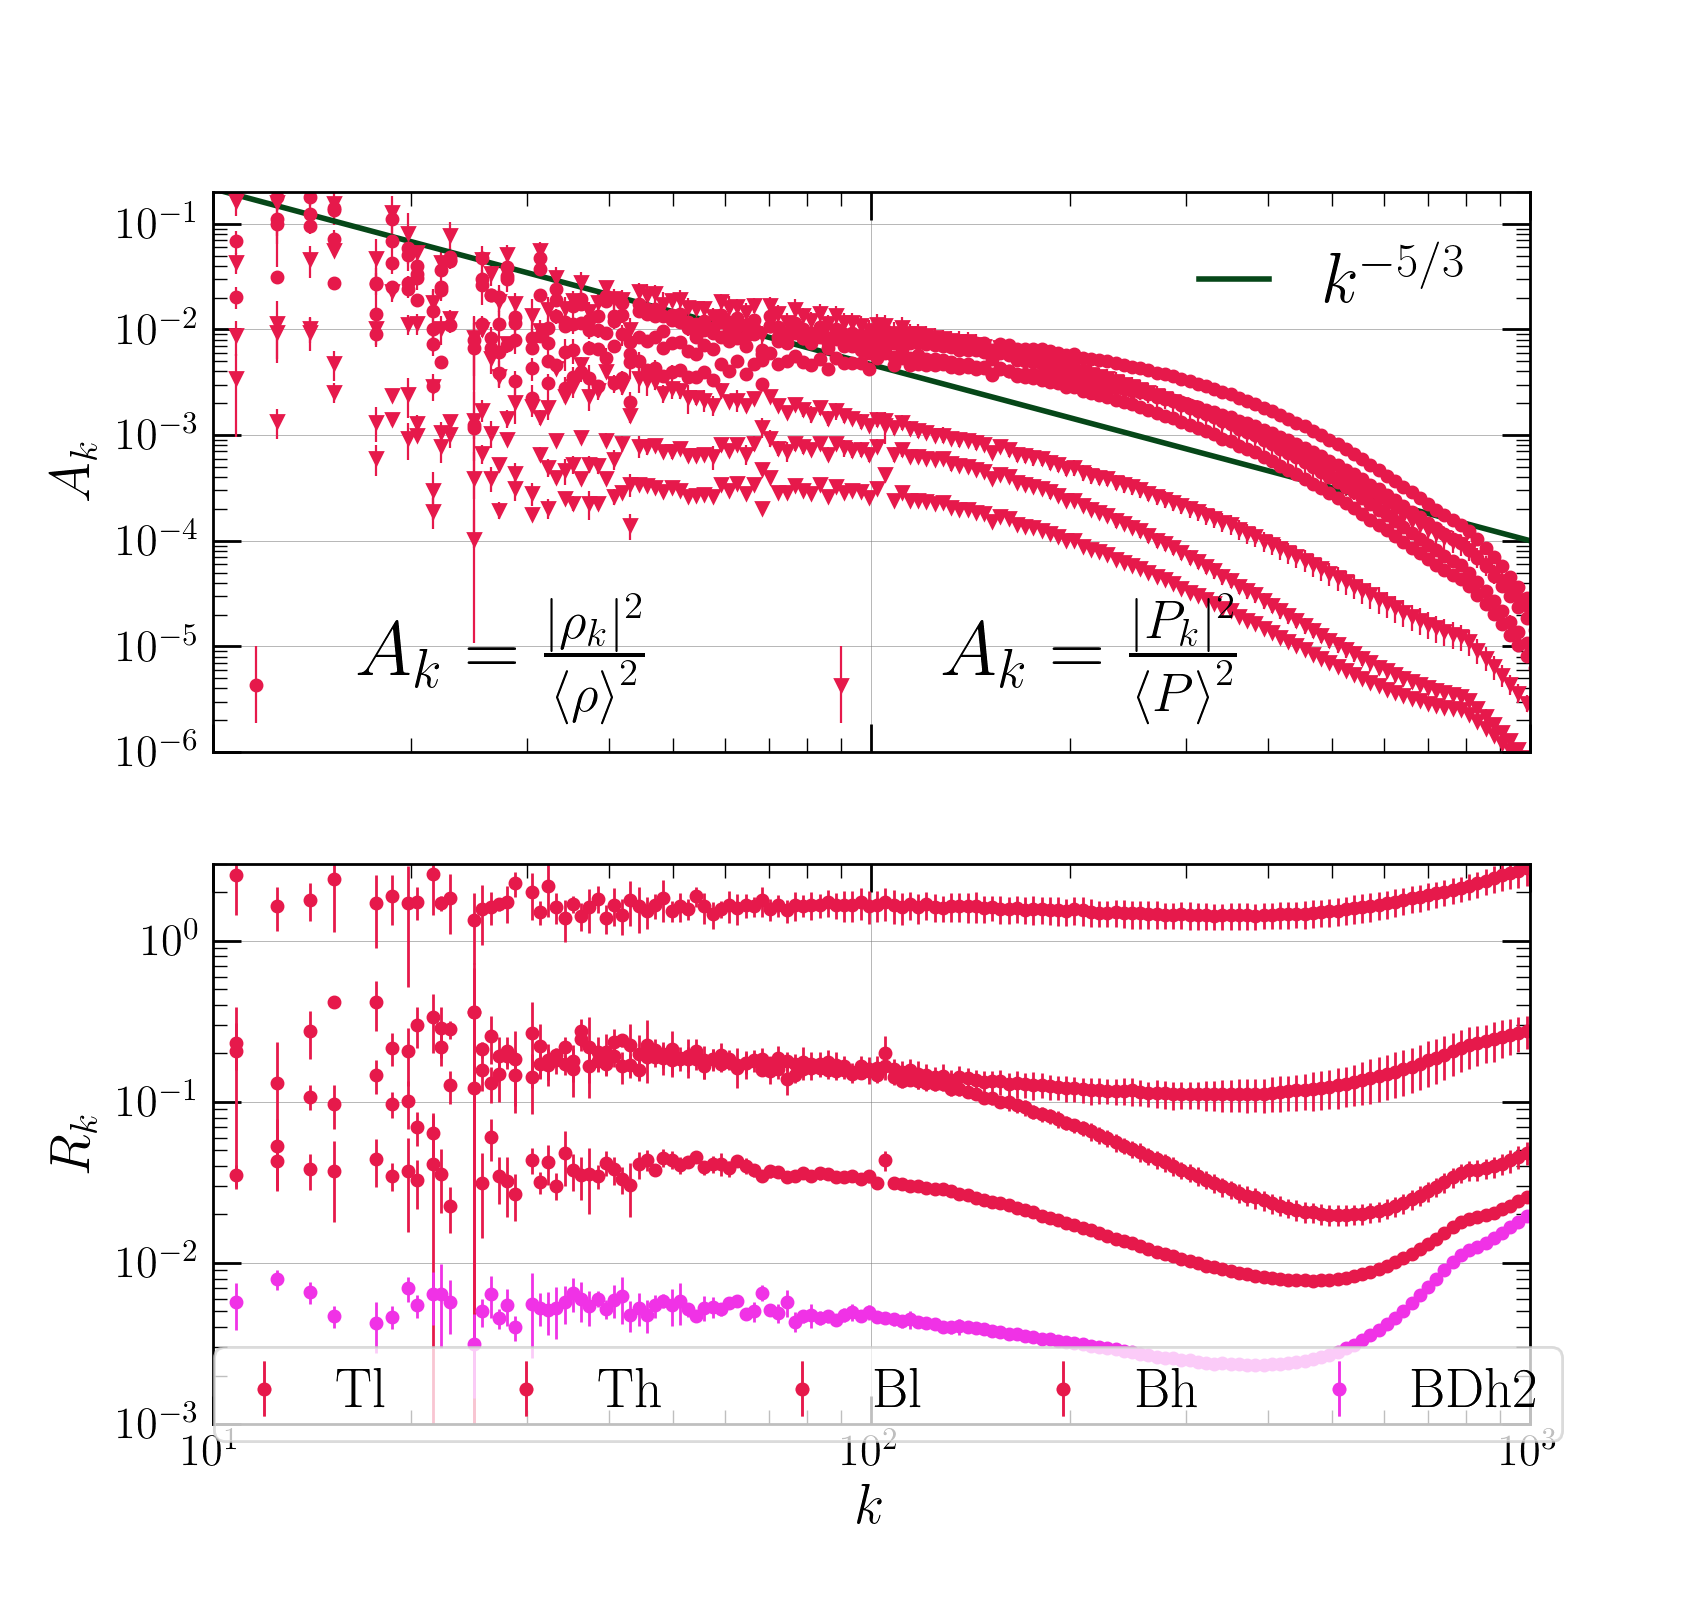
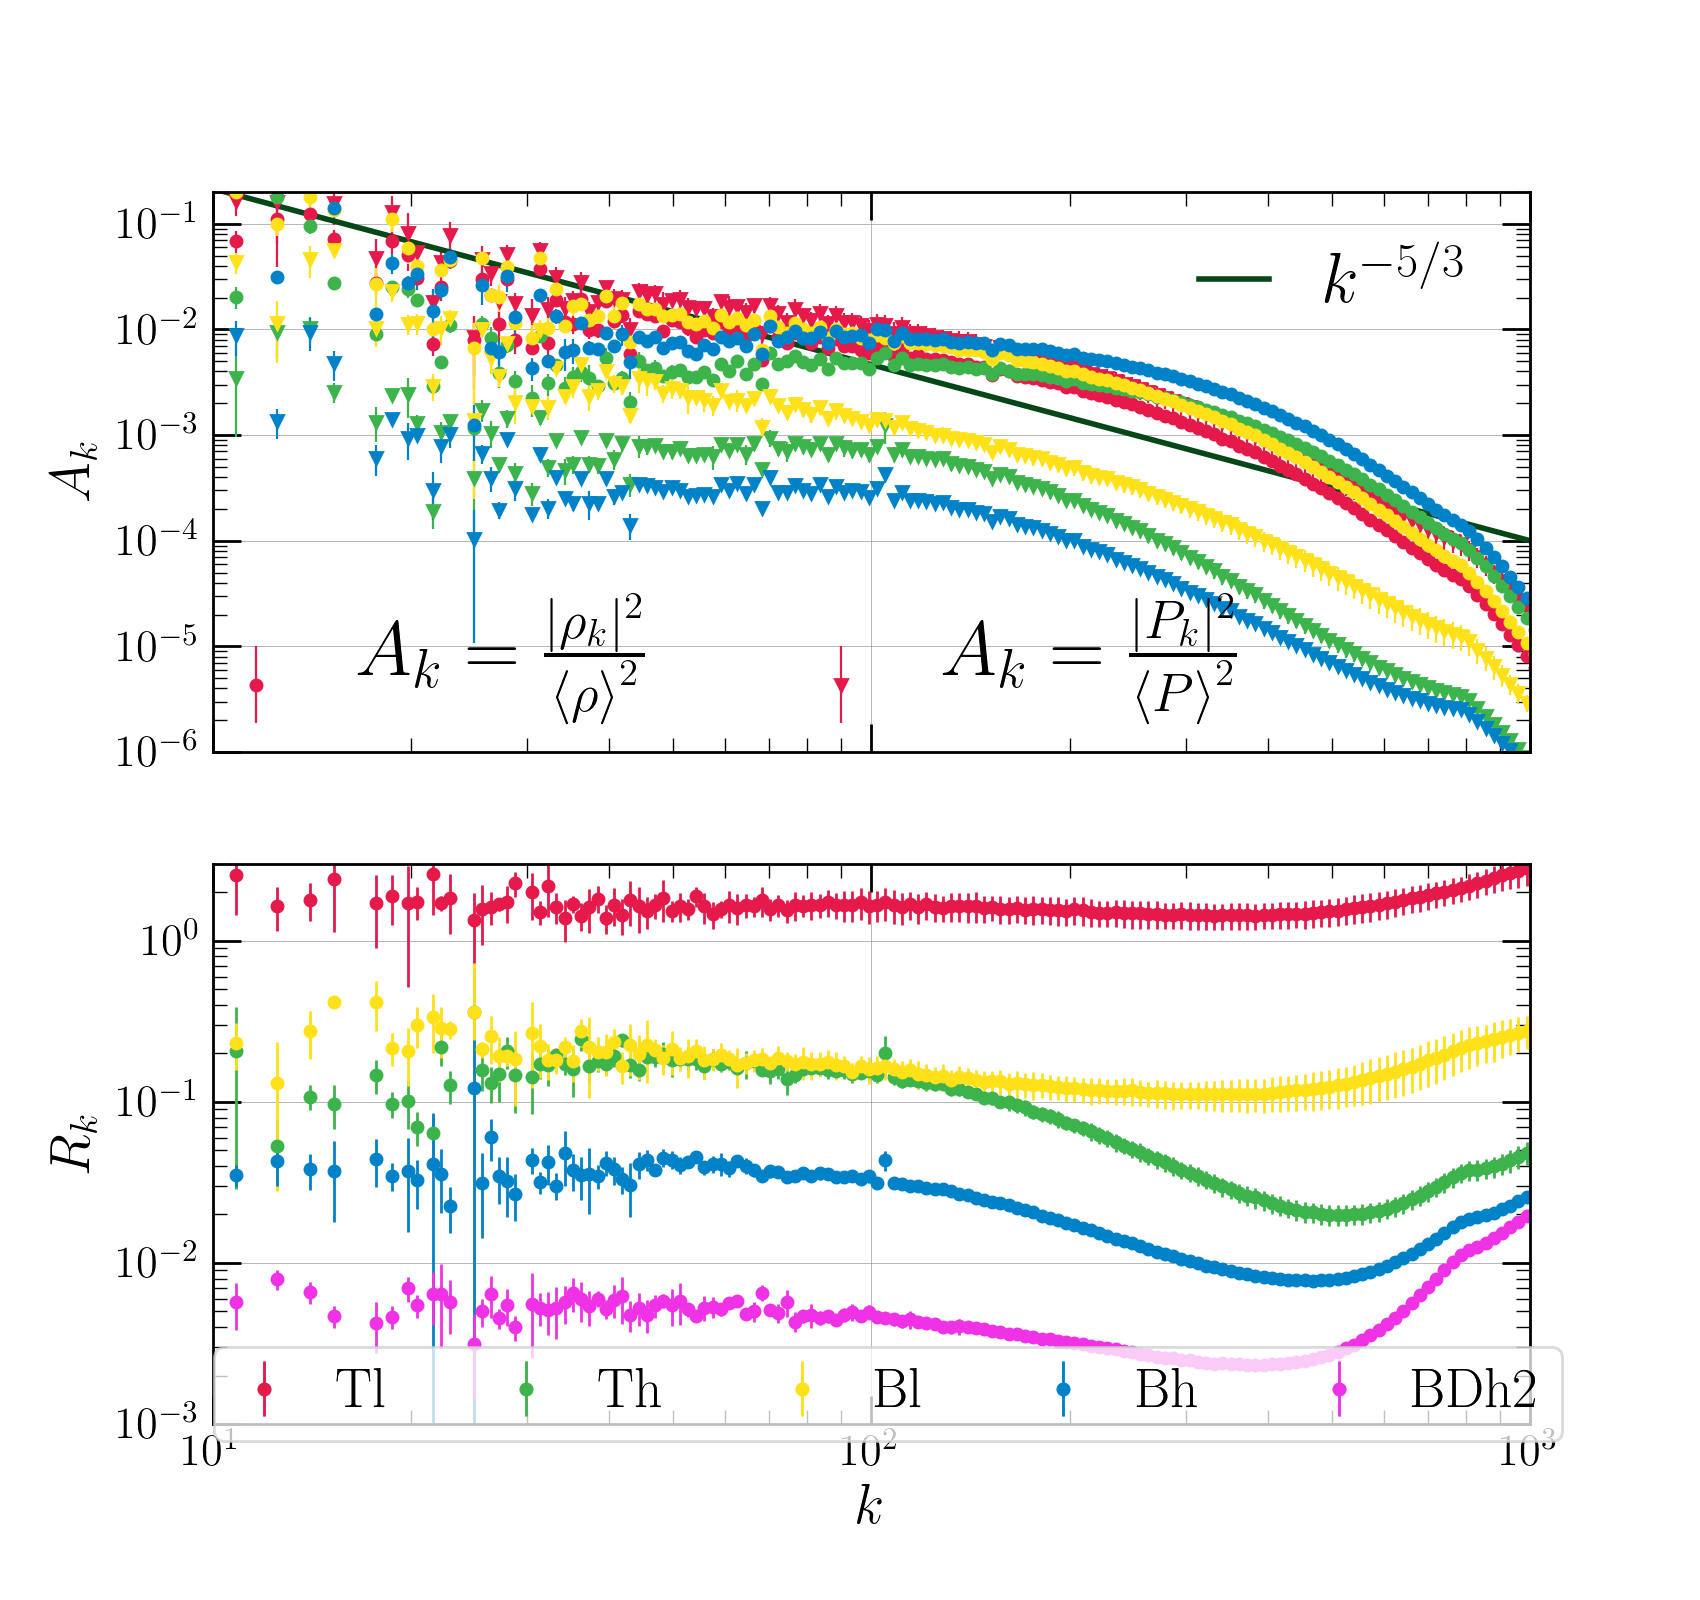
Edited plots

Changed region(s): [[0.1247, 0.125, 0.9041, 0.4688], [0.1559, 0.625, 0.9041, 0.7812], [0.6859, 0.7188, 0.9041, 0.8125]]

diff --git a/All_analysis/rho-vel-spectra-cool.py b/All_analysis/rho-vel-spectra-cool.py
@@ -88,13 +88,12 @@ for i in xrange(0, start.size):
 	Ek1=np.average(Ek1,0)
 	del_Ek2=np.std(Ek2,0)
 	Ek2=np.average(Ek2,0)
-
+	j1=i
 	if (i==0):
                 leg1=r'$A_k=\frac{|V_k|^2}{c_s^2}$'
                 leg2=r'$A_k=\frac{|\rho_k|^2}{\left<\rho\right>^2}$'
 	#Plot original power spectra
 	#first velocity spectra
-		j1=i
 		spectra[2*i]=ax1.errorbar(k1[1:-10],Ek1[1:-10], yerr=del_Ek1[1:-10], color=colors[j1], fmt='o', markeredgecolor=None, ecolor=None, capsize=None, barsabove=False, label=leg1, markersize=4., elinewidth=0.8)
 
 		spectra[2*i+1]=ax1.errorbar(k1[1:-10],Ek2[1:-10], yerr=del_Ek2[1:-10], color=colors[j1], fmt='v', markeredgecolor=None, ecolor=None, capsize=None, barsabove=False, label=leg2, markersize=4., elinewidth=0.8)
@@ -108,7 +107,7 @@ for i in xrange(0, start.size):
 	if (i<start.size):
 		if(i==4):j1=i+3
 		ratio_spectra[i]=ax2.errorbar(k1[1:-10], ratio_k[1:-10], yerr=del_ratiok[1:-10], color=colors[j1], fmt='o', markeredgecolor=None, ecolor=None, capsize=None, barsabove=False, label=labels[i], markersize=4., elinewidth=1.)
-
+	print j1
 x=np.arange(10., 10**3., 1.)
 fit, =ax1.plot(x, 5.*x**(-5./3.), label=r'$k^{-5/3}$', marker="d", markeredgecolor='none', markersize=0.5, linewidth=2.0, color=colors[9])
 ax1.set_yscale('log')

diff --git a/All_analysis/rho-prs-spectra-cool.py b/All_analysis/rho-prs-spectra-cool.py
@@ -81,13 +81,12 @@ for i in xrange(0, start.size):
 	Ek1=np.average(Ek1,0)
 	del_Ek2=np.std(Ek2,0)
 	Ek2=np.average(Ek2,0)
-
+	j1=i
 	if (i==0):
                 leg1=r'$A_k=\frac{|\rho_k|^2}{\left<\rho\right>^2}$'
                 leg2=r'$A_k=\frac{|P_k|^2}{\left<P\right>^2}$'
 	#Plot original power spectra
 	#first velocity spectra
-		j1=i
 		spectra[2*i]=ax1.errorbar(k1[1:-10],Ek1[1:-10], yerr=del_Ek1[1:-10], color=colors[j1], fmt='o', markeredgecolor=None, ecolor=None, capsize=None, barsabove=False, label=leg1, markersize=4., elinewidth=0.8)
 
 		spectra[2*i+1]=ax1.errorbar(k1[1:-10],Ek2[1:-10], yerr=del_Ek2[1:-10], color=colors[j1], fmt='v', markeredgecolor=None, ecolor=None, capsize=None, barsabove=False, label=leg2, markersize=4., elinewidth=0.8)
